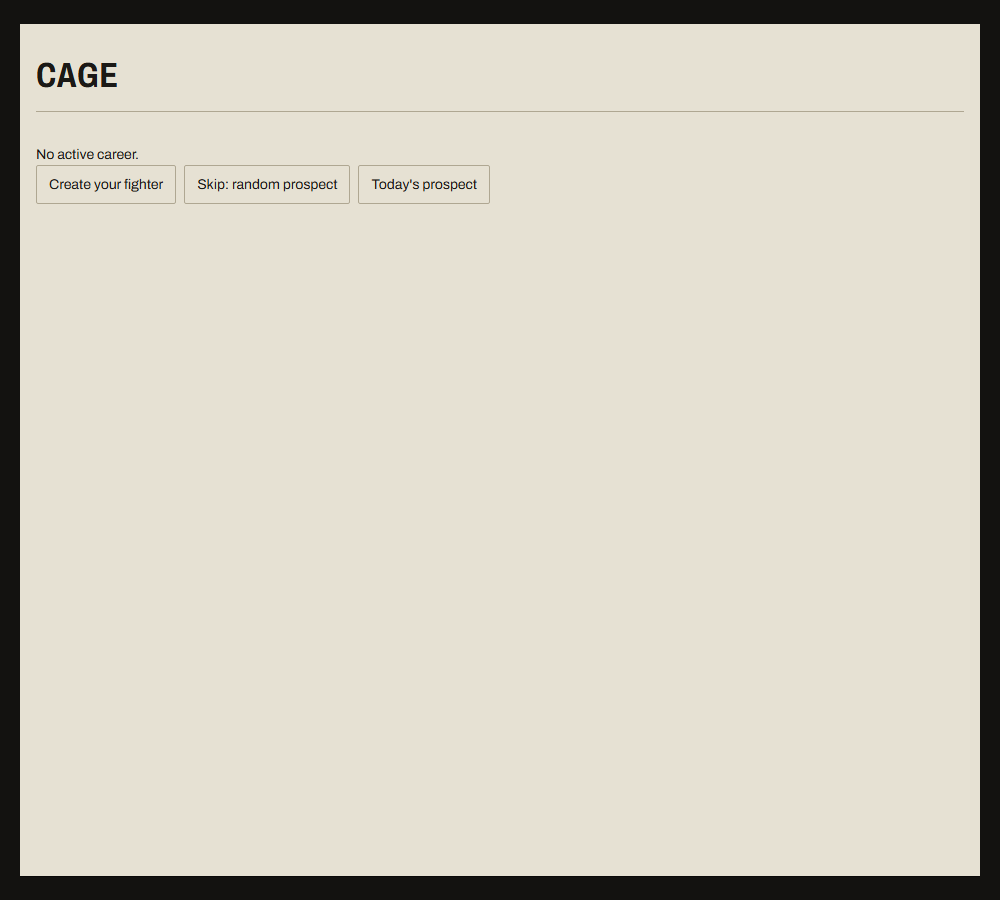
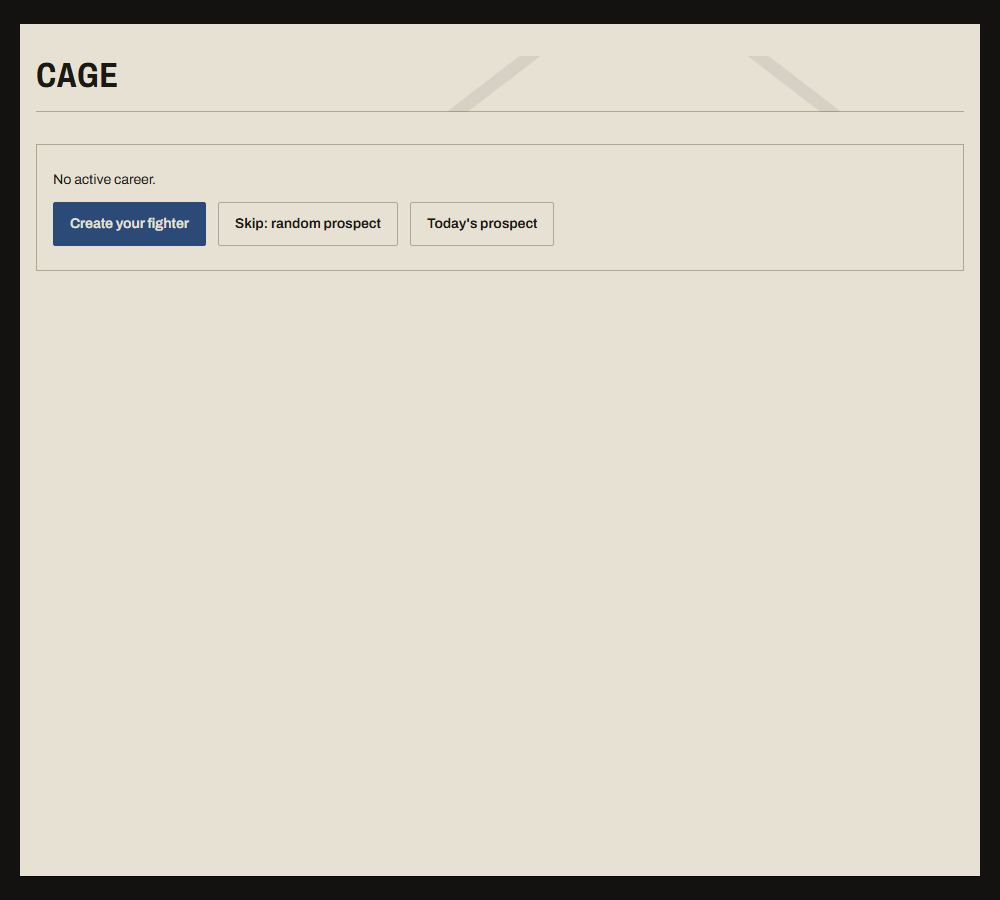
Loop 6.9/6.11: scene plate budget test, reveal + career card on the kit
Fixes two TS build errors left by the prior fight-night commit
(StatRadar's color->corner prop rename, Scorecard's readonly Judge[]).
Adds the automated 6KB scene-plate budget + totality check Loop 6.9's
verify called for. Rebuilds RevealScreen (portrait beside the radar,
archetype/weakness as a stamped license) and CareerCardScreen (debut
face beside the current/retirement face via faceWear) on Sheet/FormRow/
Stamp/Button, closing out Loop 6.11.

Changed region(s): [[0.031, 0.1556, 0.558, 0.28]]

diff --git a/src/ui/screens/CareerCardScreen.tsx b/src/ui/screens/CareerCardScreen.tsx
@@ -1,13 +1,24 @@
 // CareerCardScreen.tsx — Loop 3.5 built the retirement payoff (DESIGN.md
 // §8.5): record/finishes/grade from real accumulated career state. Loop 5.2
-// adds the shareable-text half — computeCareerCardData (career/shareCard.ts)
-// is now the single source for these numbers, and a copy button turns them
-// into Wordle-style text via formatShareText.
+// added the shareable-text half — computeCareerCardData (career/shareCard.ts)
+// is the single source for these numbers, and a copy button turns them into
+// Wordle-style text via formatShareText. Loop 6.11 rebuilds the screen on
+// the component kit and adds the debut/retirement face pair §15.4 promises:
+// the same FaceCode rendered with NO_WEAR beside itself rendered through
+// faceWear(player, record, fightHistory) — the only difference is the wear
+// layers, so side by side they read as the same person, older.
 
 import { useState } from 'preact/hooks';
 import { computeCareerCardData, formatShareText } from '../../career/shareCard';
 import { useCageStore } from '../../state/store';
+import { faceWear } from '../portrait/wear';
+import { Portrait } from '../portrait/Portrait';
+import { Button } from '../components/Button';
+import { FormRow } from '../components/FormRow';
 import { Screen } from '../components/Screen';
+import { Sheet } from '../components/Sheet';
+import { Stamp } from '../components/Stamp';
+import styles from './CareerCardScreen.module.css';
 
 export function CareerCardScreen() {
   const career = useCageStore((s) => s.career);
@@ -17,15 +28,18 @@ export function CareerCardScreen() {
   if (!card || !career.player) {
     return (
       <Screen register="file" id="career-card-screen" title="Career card">
-        <p>No career on record — start one first.</p>
+        <Sheet>
+          <p>No career on record — start one first.</p>
+        </Sheet>
       </Screen>
     );
   }
 
-  const { player } = career;
+  const { player, record, fightHistory } = career;
+  const wear = faceWear(player, record, fightHistory);
 
   async function copyShareText() {
-    const text = formatShareText(card!, player.name);
+    const text = formatShareText(card!, player!.name);
     try {
       await navigator.clipboard.writeText(text);
       setCopied(true);
@@ -39,55 +53,40 @@ export function CareerCardScreen() {
 
   return (
     <Screen register="file" id="career-card-screen" eyebrow="Career card" title={player.name}>
-      <p style={{ color: 'var(--text-soft)' }}>
-        {card.retired ? 'Retired' : 'Active'} · {card.archetype}
-      </p>
+      <Sheet title={player.name} caption={card.archetype}>
+        <div class={styles.faces}>
+          <div class={styles.face}>
+            <Portrait face={player.face} size="7rem" />
+            <span class={styles.faceLabel}>Debut</span>
+          </div>
+          <div class={styles.face}>
+            <Portrait face={player.face} wear={wear} size="7rem" />
+            <span class={styles.faceLabel}>{card.retired ? 'Retirement' : 'Current'}</span>
+          </div>
+        </div>
 
-      <table>
-        <tbody>
-          <tr>
-            <td>Record</td>
-            <td>
-              {card.wins}-{card.losses}-{card.draws}
-              {card.noContests > 0 ? ` (${card.noContests} NC)` : ''}
-            </td>
-          </tr>
-          <tr>
-            <td>Finishes</td>
-            <td>
-              {card.finishes} ({Math.round(card.finishRate * 100)}%)
-            </td>
-          </tr>
-          <tr>
-            <td>Final ranking</td>
-            <td>{card.ranking === null ? 'Unranked' : `#${card.ranking}`}</td>
-          </tr>
-          <tr>
-            <td>Career purse</td>
-            <td>${card.purse.toLocaleString('en-US')}</td>
-          </tr>
-          <tr>
-            <td>Grade</td>
-            <td>{card.grade}</td>
-          </tr>
-        </tbody>
-      </table>
+        <p class={styles.status}>
+          <Stamp tone={card.retired ? 'mark' : 'blue'} flat>
+            {card.retired ? 'Retired' : 'Active'}
+          </Stamp>
+        </p>
 
-      <pre
-        style={{
-          whiteSpace: 'pre-wrap',
-          background: '#1a1a1a',
-          padding: '0.75rem',
-          borderRadius: '4px',
-          fontSize: '0.9rem',
-        }}
-      >
-        {formatShareText(card, player.name)}
-      </pre>
+        <FormRow
+          label="Record"
+          value={`${card.wins}-${card.losses}-${card.draws}${card.noContests > 0 ? ` (${card.noContests} NC)` : ''}`}
+        />
+        <FormRow label="Finishes" value={`${card.finishes} (${Math.round(card.finishRate * 100)}%)`} />
+        <FormRow label="Final ranking" value={card.ranking === null ? 'Unranked' : `#${card.ranking}`} />
+        <FormRow label="Career purse" value={`$${card.purse.toLocaleString('en-US')}`} />
+        <FormRow label="Grade" value={card.grade} />
+      </Sheet>
 
-      <button type="button" onClick={copyShareText}>
-        {copied ? 'Copied!' : 'Copy shareable result'}
-      </button>
+      <Sheet title="Shareable result" variant="carbon">
+        <pre class={styles.shareText}>{formatShareText(card, player.name)}</pre>
+        <Button variant="primary" block onClick={copyShareText}>
+          {copied ? 'Copied!' : 'Copy shareable result'}
+        </Button>
+      </Sheet>
     </Screen>
   );
 }

diff --git a/src/ui/screens/RevealScreen.tsx b/src/ui/screens/RevealScreen.tsx
@@ -4,13 +4,24 @@
 // explicitly. Reuses StatRadar unchanged (built generic in Loop 2.2 for
 // exactly this). Only the full wrapper path (ChargenWrapper) renders this —
 // the §9.3 skip path jumps straight to the pro debut without it.
+//
+// Loop 6.11 rebuilds it on the component kit: the authored portrait (Loop
+// 6.5's face, debut/no-wear — this is the character's first ever look) sits
+// beside the radar, and archetype/weakness read as a stamped commission
+// license rather than plain paragraphs, matching the paperwork register
+// (§15.1) the rest of The File is built on.
 
 import { computePillars } from '../../engine';
 import type { Origin } from '../../engine/types';
 import { archetypes } from '../../content';
 import { attributesFromOrigin } from '../../career/origin';
+import { Portrait } from '../portrait/Portrait';
 import { StatRadar } from '../components/StatRadar';
 import { Screen } from '../components/Screen';
+import { Sheet } from '../components/Sheet';
+import { Stamp } from '../components/Stamp';
+import { Button } from '../components/Button';
+import styles from './RevealScreen.module.css';
 
 const PILLAR_AXES = ['Striking', 'Grappling', 'Durability', 'Mind'] as const;
 
@@ -20,10 +31,11 @@ function humanize(id: string): string {
 
 interface RevealScreenProps {
   origin: Origin;
+  face: string;
   onBeginCareer: () => void;
 }
 
-export function RevealScreen({ origin, onBeginCareer }: RevealScreenProps) {
+export function RevealScreen({ origin, face, onBeginCareer }: RevealScreenProps) {
   const attributes = attributesFromOrigin(origin);
   const pillars = computePillars(attributes);
   const values = [pillars.striking, pillars.grappling, pillars.durability, pillars.mind];
@@ -32,24 +44,30 @@ export function RevealScreen({ origin, onBeginCareer }: RevealScreenProps) {
 
   return (
     <Screen register="file" id="reveal-screen" eyebrow="Licence issued" title={'Here’s who you are'}>
-      <p style={{ color: 'var(--text-soft)' }}>
-        Amateur record {origin.amateurRecord.wins}-{origin.amateurRecord.losses}
-      </p>
+      <Sheet title="Amateur record" caption={`${origin.amateurRecord.wins}-${origin.amateurRecord.losses}`}>
+        <div class={styles.body}>
+          <div class={styles.portraitCol}>
+            <Portrait face={face} size="8rem" />
+          </div>
+          <div class={styles.radarCol}>
+            <StatRadar axes={[...PILLAR_AXES]} series={[{ name: 'You', corner: 'red', values }]} />
+          </div>
+        </div>
 
-      <div style={{ padding: '0 2rem 1rem' }}>
-        <StatRadar axes={[...PILLAR_AXES]} series={[{ name: 'You', color: '#4a9d5f', values }]} />
-      </div>
+        <div class={styles.license}>
+          <Stamp>{archetypeLabel}</Stamp>
+          <span class={styles.overall}>Overall rating {overall}</span>
+        </div>
 
-      <p>
-        <strong>{archetypeLabel}</strong> &middot; Overall rating {overall}
-      </p>
-      <p>
-        Exploitable weakness: <strong>{origin.weakness ? humanize(origin.weakness) : 'None obvious yet'}</strong>
-      </p>
+        <p class={styles.weakness}>
+          Exploitable weakness:{' '}
+          <strong>{origin.weakness ? humanize(origin.weakness) : 'None obvious yet'}</strong>
+        </p>
+      </Sheet>
 
-      <button type="button" onClick={onBeginCareer}>
+      <Button variant="primary" block onClick={onBeginCareer}>
         Begin pro career
-      </button>
+      </Button>
     </Screen>
   );
 }

diff --git a/tests/sprite.spec.ts b/tests/sprite.spec.ts
@@ -14,9 +14,14 @@ import { fileURLToPath } from 'node:url';
 import { join } from 'node:path';
 import { describe, expect, it } from 'vitest';
 import { FLAG_SYMBOLS, flagSymbolId, hasFlag } from '../src/ui/sprite/flags';
+import { SCENE_PLATES, scenePlateSymbolId } from '../src/ui/sprite/scenePlates';
 
 const SRC = fileURLToPath(new URL('../src', import.meta.url));
 const SPRITE = readFileSync(fileURLToPath(new URL('../src/ui/sprite/Sprite.tsx', import.meta.url)), 'utf-8');
+const PLATE_SPRITE = readFileSync(
+  fileURLToPath(new URL('../src/ui/sprite/PlateSprite.tsx', import.meta.url)),
+  'utf-8',
+);
 
 function sourceFiles(dir: string): string[] {
   return readdirSync(dir).flatMap((entry) => {
@@ -83,6 +88,26 @@ describe('the nationality lookup is total (§15.5: never a broken glyph)', () =>
     const { namePools } = await import('../src/content');
     for (const pool of namePools) {
       expect(hasFlag(pool.nationality)).toBe(true);
+    }
+  });
+});
+
+describe('scene plate budget (§15.6: ≤6KB for all six plates)', () => {
+  it('keeps the combined plate markup under 6KB', () => {
+    const markup = PLATE_SPRITE.slice(
+      PLATE_SPRITE.indexOf('<symbol'),
+      PLATE_SPRITE.lastIndexOf('</symbol>') + 9,
+    )
+      .replace(/\{\/\*[\s\S]*?\*\/\}/g, '')
+      .replace(/>\s+</g, '><')
+      .replace(/\s+/g, ' ')
+      .trim();
+    expect(markup.length).toBeLessThanOrEqual(6144);
+  });
+
+  it('never returns a symbol the plate sprite does not define', () => {
+    for (const plate of SCENE_PLATES) {
+      expect(PLATE_SPRITE).toContain(`id="${scenePlateSymbolId(plate)}"`);
     }
   });
 });

diff --git a/src/ui/screens/CareerCardScreen.module.css b/src/ui/screens/CareerCardScreen.module.css
@@ -1,0 +1,35 @@
+/* CareerCardScreen — Loop 6.11: the debut/retirement face pair (§15.4) and
+ * the shareable-text sheet, on the component kit. */
+
+.faces {
+  display: flex;
+  gap: var(--sp-5);
+  margin-bottom: var(--sp-4);
+}
+
+.face {
+  display: flex;
+  flex-direction: column;
+  align-items: center;
+  gap: var(--sp-1);
+}
+
+.faceLabel {
+  font-family: var(--font-mono);
+  font-size: var(--t-1);
+  letter-spacing: var(--track-label);
+  text-transform: uppercase;
+  color: var(--text-soft);
+}
+
+.status {
+  margin-bottom: var(--sp-4);
+}
+
+.shareText {
+  white-space: pre-wrap;
+  font-family: var(--font-mono);
+  font-size: var(--t-2);
+  color: var(--text);
+  margin-bottom: var(--sp-3);
+}

diff --git a/src/ui/screens/RevealScreen.module.css b/src/ui/screens/RevealScreen.module.css
@@ -1,0 +1,35 @@
+/* RevealScreen — Loop 6.11: the portrait/radar pair and the stamped
+ * archetype/weakness license, on the component kit. */
+
+.body {
+  display: flex;
+  align-items: center;
+  gap: var(--sp-5);
+  margin-bottom: var(--sp-4);
+}
+
+.portraitCol {
+  flex-shrink: 0;
+}
+
+.radarCol {
+  flex: 1;
+  min-width: 0;
+}
+
+.license {
+  display: flex;
+  align-items: center;
+  gap: var(--sp-3);
+  margin-bottom: var(--sp-3);
+}
+
+.overall {
+  font-family: var(--font-mono);
+  font-size: var(--t-2);
+  color: var(--text-soft);
+}
+
+.weakness {
+  color: var(--text-soft);
+}

diff --git a/src/ui/screens/ChargenWrapper.tsx b/src/ui/screens/ChargenWrapper.tsx
@@ -49,7 +49,7 @@ export function ChargenWrapper() {
   }
 
   if (done && origin && face) {
-    return <RevealScreen origin={origin} onBeginCareer={beginProCareer} />;
+    return <RevealScreen origin={origin} face={face} onBeginCareer={beginProCareer} />;
   }
 
   if (face === null) {

diff --git a/src/ui/components/Scorecard.tsx b/src/ui/components/Scorecard.tsx
@@ -11,7 +11,7 @@ import styles from './Scorecard.module.css';
 
 interface ScorecardProps {
   scorecards: ScorecardData[];
-  judges: Judge[];
+  judges: readonly Judge[];
   roundsScored: number;
   fighterAName: string;
   fighterBName: string;
